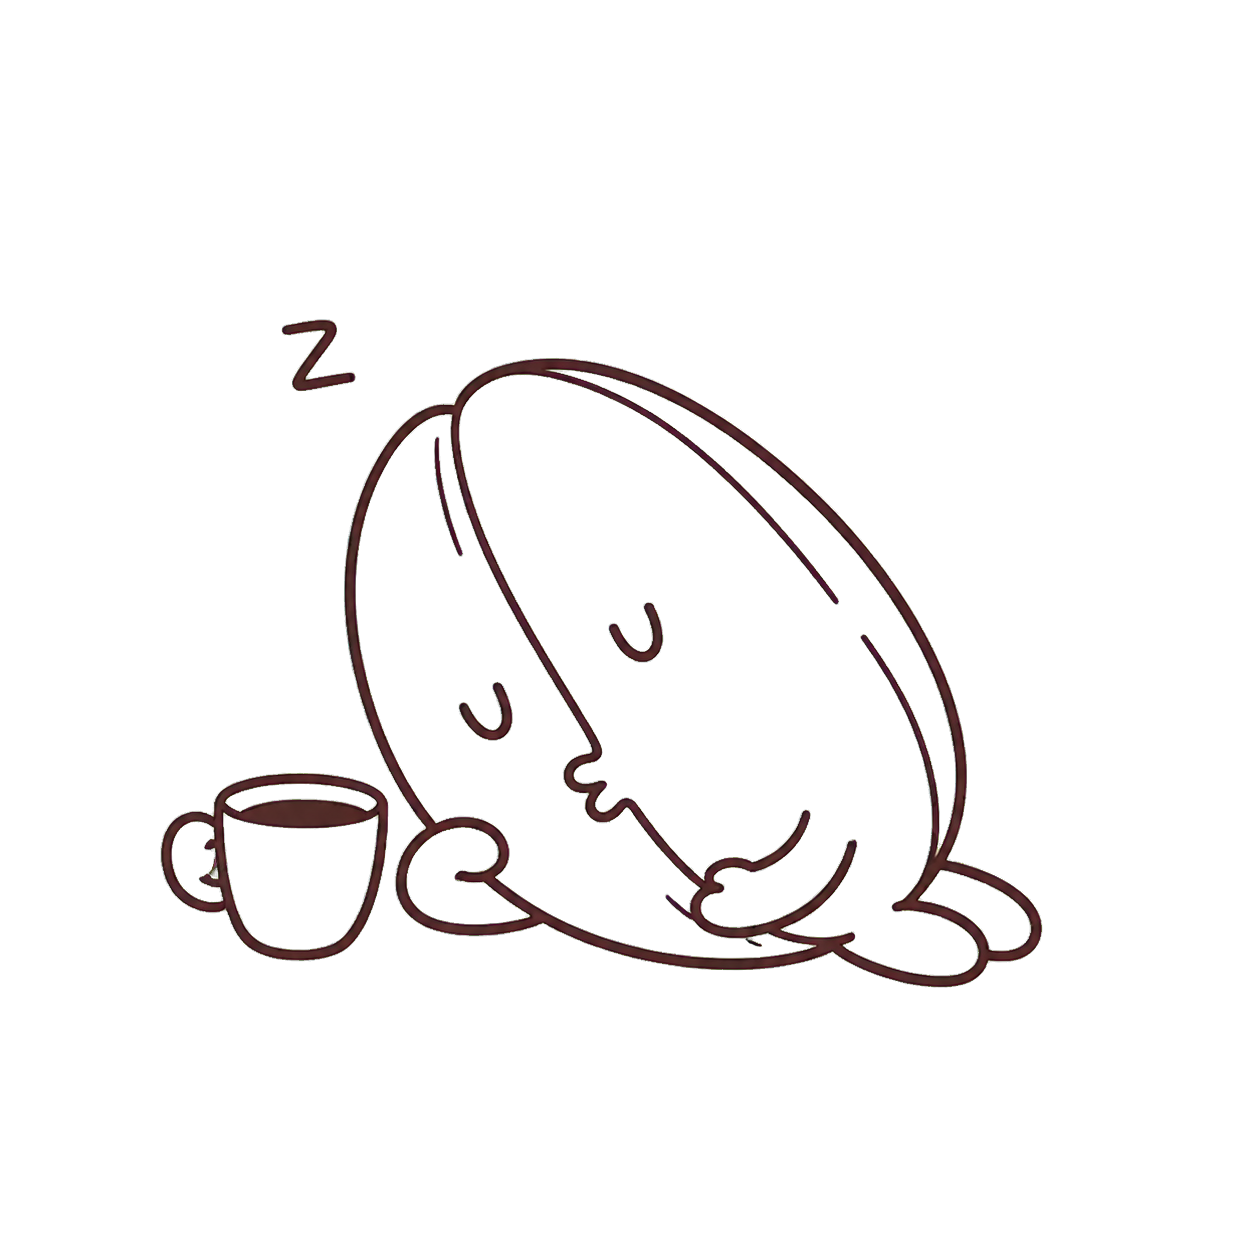
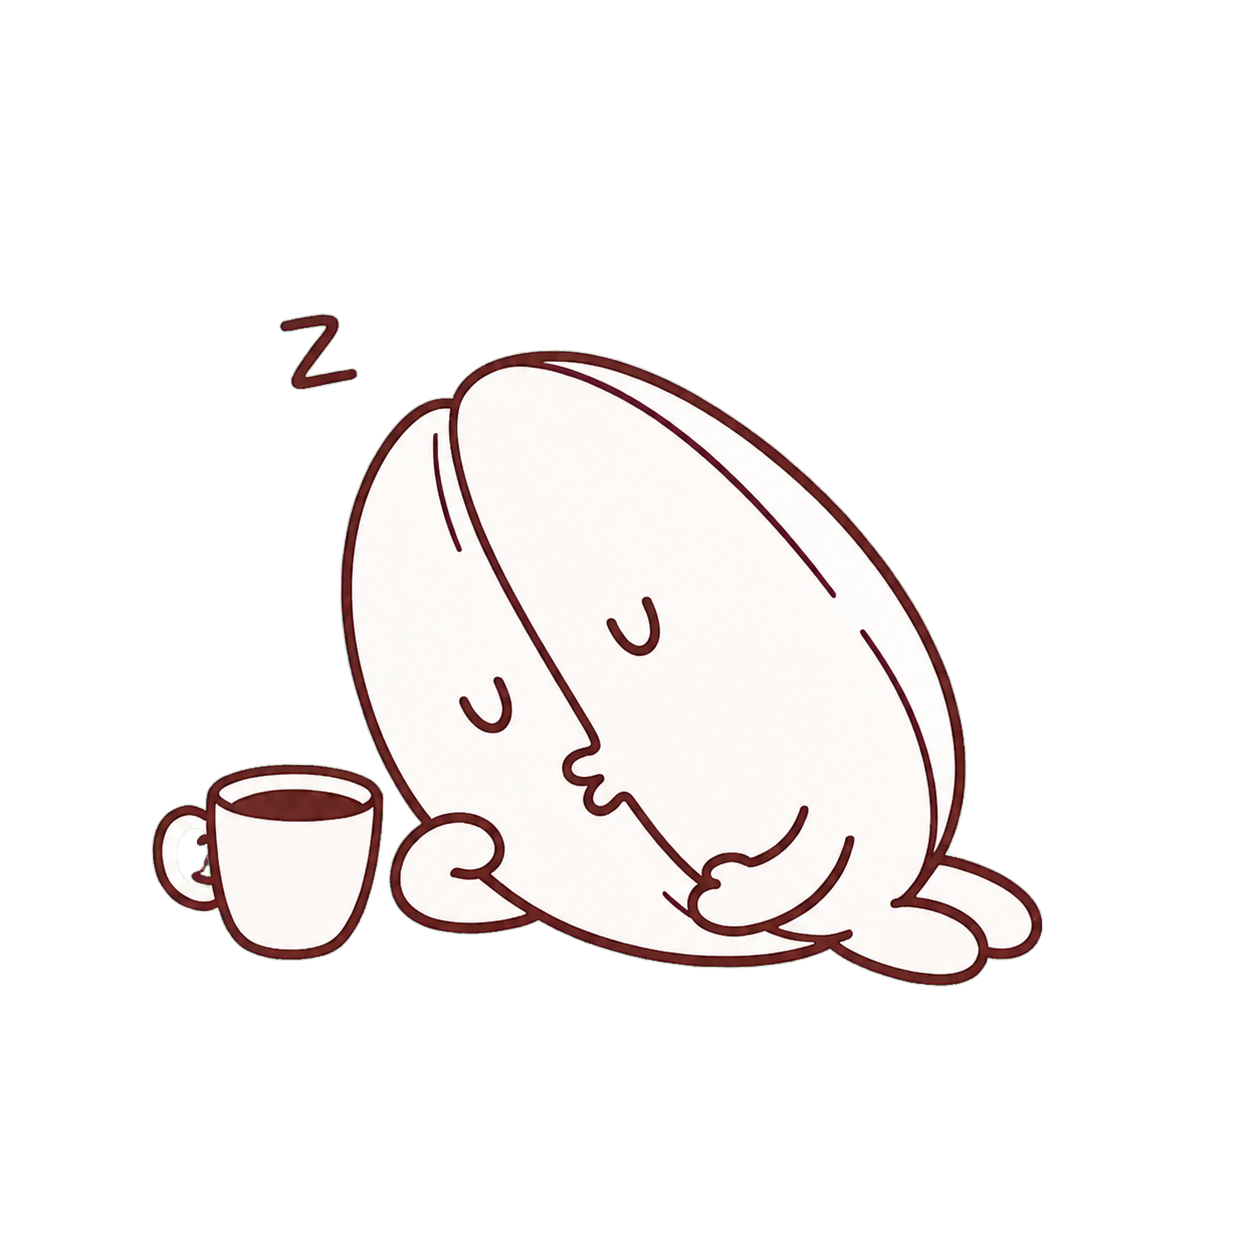
Expand the Dame Bean holiday library

diff --git a/app/components/bean-state.tsx b/app/components/bean-state.tsx
@@ -15,7 +15,48 @@ export type BeanState =
   | 'halloween'
   | 'winter';
 
-const beanCopy: Record<BeanState, { src: string; alt: string }> = {
+export type BeanHolidayState =
+  | 'new-year'
+  | 'valentines'
+  | 'dia-de-reyes'
+  | 'lunar-new-year'
+  | 'st-patricks'
+  | 'easter'
+  | 'earth-day'
+  | 'mothers-day'
+  | 'fathers-day'
+  | 'memorial-day'
+  | 'cinco-de-mayo'
+  | 'pride'
+  | 'juneteenth'
+  | 'fourth-of-july'
+  | 'labor-day'
+  | 'mexican-independence'
+  | 'indigenous-peoples-day'
+  | 'halloween'
+  | 'dia-de-muertos'
+  | 'veterans-day'
+  | 'thanksgiving'
+  | 'hanukkah'
+  | 'las-posadas'
+  | 'christmas'
+  | 'kwanzaa'
+  | 'eid';
+
+export type BeanUtilityState =
+  | 'loading-start'
+  | 'loading-sip'
+  | 'loading-ready'
+  | 'waving'
+  | 'chef'
+  | 'croissant'
+  | 'binoculars'
+  | 'construction'
+  | 'birthday';
+
+export type DameBeanState = BeanState | BeanHolidayState | BeanUtilityState;
+
+const beanCopy: Record<DameBeanState, { src: string; alt: string }> = {
   walking: {
     src: '/assets/bean-states/bean-walking.png',
     alt: 'The Dame Bean walking with a cup of coffee',
@@ -68,9 +109,130 @@ const beanCopy: Record<BeanState, { src: string; alt: string }> = {
     src: '/assets/bean-states/bean-winter.png',
     alt: 'The Dame Bean carrying a winter gift',
   },
+  'new-year': { src: '/assets/bean-states/bean-new-year.png', alt: 'The Dame Bean celebrating the New Year' },
+  valentines: { src: '/assets/bean-states/bean-valentines.png', alt: 'The Dame Bean holding a heart for Valentine’s Day' },
+  'dia-de-reyes': { src: '/assets/bean-states/bean-dia-de-reyes.png', alt: 'The Dame Bean sharing rosca for Día de Reyes' },
+  'lunar-new-year': { src: '/assets/bean-states/bean-lunar-new-year.png', alt: 'The Dame Bean celebrating Lunar New Year' },
+  'st-patricks': { src: '/assets/bean-states/bean-st-patricks.png', alt: 'The Dame Bean wearing a clover for Saint Patrick’s Day' },
+  easter: { src: '/assets/bean-states/bean-easter.png', alt: 'The Dame Bean carrying an Easter basket' },
+  'earth-day': { src: '/assets/bean-states/bean-earth-day.png', alt: 'The Dame Bean holding a seedling for Earth Day' },
+  'mothers-day': { src: '/assets/bean-states/bean-mothers-day.png', alt: 'The Dame Bean offering flowers for Mother’s Day' },
+  'fathers-day': { src: '/assets/bean-states/bean-fathers-day.png', alt: 'The Dame Bean carrying a Father’s Day gift' },
+  'memorial-day': { src: '/assets/bean-states/bean-memorial-day.png', alt: 'The Dame Bean holding a poppy for Memorial Day' },
+  'cinco-de-mayo': { src: '/assets/bean-states/bean-cinco-de-mayo.png', alt: 'The Dame Bean celebrating with papel picado' },
+  pride: { src: '/assets/bean-states/bean-pride.png', alt: 'The Dame Bean celebrating Pride' },
+  juneteenth: { src: '/assets/bean-states/bean-juneteenth.png', alt: 'The Dame Bean celebrating Juneteenth' },
+  'fourth-of-july': { src: '/assets/bean-states/bean-fourth-of-july.png', alt: 'The Dame Bean celebrating the Fourth of July' },
+  'labor-day': { src: '/assets/bean-states/bean-labor-day.png', alt: 'The Dame Bean serving coffee for Labor Day' },
+  'mexican-independence': { src: '/assets/bean-states/bean-mexican-independence.png', alt: 'The Dame Bean celebrating Mexican Independence Day' },
+  'indigenous-peoples-day': { src: '/assets/bean-states/bean-indigenous-peoples-day.png', alt: 'The Dame Bean honoring Indigenous Peoples’ Day' },
+  'dia-de-muertos': { src: '/assets/bean-states/bean-dia-de-muertos.png', alt: 'The Dame Bean holding a candle for Día de Muertos' },
+  'veterans-day': { src: '/assets/bean-states/bean-veterans-day.png', alt: 'The Dame Bean honoring Veterans Day' },
+  thanksgiving: { src: '/assets/bean-states/bean-thanksgiving.png', alt: 'The Dame Bean sharing pie for Thanksgiving' },
+  hanukkah: { src: '/assets/bean-states/bean-hanukkah.png', alt: 'The Dame Bean celebrating Hanukkah' },
+  'las-posadas': { src: '/assets/bean-states/bean-las-posadas.png', alt: 'The Dame Bean carrying a lantern for Las Posadas' },
+  christmas: { src: '/assets/bean-states/bean-christmas.png', alt: 'The Dame Bean sharing coffee and a Christmas gift' },
+  kwanzaa: { src: '/assets/bean-states/bean-kwanzaa.png', alt: 'The Dame Bean celebrating Kwanzaa' },
+  eid: { src: '/assets/bean-states/bean-eid.png', alt: 'The Dame Bean celebrating Eid' },
+  'loading-start': { src: '/assets/bean-states/bean-loading-start.png', alt: 'The Dame Bean arriving with coffee' },
+  'loading-sip': { src: '/assets/bean-states/bean-loading-sip.png', alt: 'The Dame Bean taking a sip of coffee' },
+  'loading-ready': { src: '/assets/bean-states/bean-loading-ready.png', alt: 'The Dame Bean waving with coffee ready' },
+  waving: { src: '/assets/bean-states/bean-waving.png', alt: 'The Dame Bean waving hello' },
+  chef: { src: '/assets/bean-states/bean-chef.png', alt: 'The Dame Bean presenting a fresh croissant' },
+  croissant: { src: '/assets/bean-states/bean-croissant.png', alt: 'The Dame Bean hugging a croissant' },
+  binoculars: { src: '/assets/bean-states/bean-binoculars.png', alt: 'The Dame Bean looking for the next Dame stop' },
+  construction: { src: '/assets/bean-states/bean-construction.png', alt: 'The Dame Bean building something new' },
+  birthday: { src: '/assets/bean-states/bean-birthday.png', alt: 'The Dame Bean celebrating a birthday' },
 };
 
-export function seasonalBeanFor(date = new Date()): BeanState {
+function isNthWeekday(date: Date, weekday: number, occurrence: number) {
+  return date.getDay() === weekday && Math.ceil(date.getDate() / 7) === occurrence;
+}
+
+function isLastWeekday(date: Date, weekday: number) {
+  const nextWeek = new Date(date);
+  nextWeek.setDate(date.getDate() + 7);
+  return date.getDay() === weekday && nextWeek.getMonth() !== date.getMonth();
+}
+
+function easterDate(year: number) {
+  const a = year % 19;
+  const b = Math.floor(year / 100);
+  const c = year % 100;
+  const d = Math.floor(b / 4);
+  const e = b % 4;
+  const f = Math.floor((b + 8) / 25);
+  const g = Math.floor((b - f + 1) / 3);
+  const h = (19 * a + b - d - g + 15) % 30;
+  const i = Math.floor(c / 4);
+  const k = c % 4;
+  const l = (32 + 2 * e + 2 * i - h - k) % 7;
+  const m = Math.floor((a + 11 * h + 22 * l) / 451);
+  const month = Math.floor((h + l - 7 * m + 114) / 31) - 1;
+  const day = ((h + l - 7 * m + 114) % 31) + 1;
+  return new Date(year, month, day);
+}
+
+function calendarParts(date: Date, calendar: 'chinese' | 'islamic' | 'hebrew') {
+  try {
+    const parts = new Intl.DateTimeFormat(`en-US-u-ca-${calendar}`, {
+      month: 'long',
+      day: 'numeric',
+    }).formatToParts(date);
+    return {
+      month: parts.find((part) => part.type === 'month')?.value ?? '',
+      day: Number(parts.find((part) => part.type === 'day')?.value ?? 0),
+    };
+  } catch {
+    return { month: '', day: 0 };
+  }
+}
+
+export function holidayBeanFor(date = new Date()): BeanHolidayState | null {
+  const month = date.getMonth();
+  const day = date.getDate();
+
+  if (month === 0 && day === 1) return 'new-year';
+  if (month === 0 && day === 6) return 'dia-de-reyes';
+  if (month === 1 && day === 14) return 'valentines';
+
+  const chinese = calendarParts(date, 'chinese');
+  if (chinese.month === 'First Month' && chinese.day <= 2) return 'lunar-new-year';
+
+  const islamic = calendarParts(date, 'islamic');
+  if ((islamic.month === 'Shawwal' && islamic.day <= 3) || (islamic.month === 'Dhuʻl-Hijjah' && islamic.day >= 10 && islamic.day <= 13)) return 'eid';
+
+  if (month === 2 && day === 17) return 'st-patricks';
+  const easter = easterDate(date.getFullYear());
+  if (month === easter.getMonth() && day === easter.getDate()) return 'easter';
+  if (month === 3 && day === 22) return 'earth-day';
+  if (month === 4 && day === 5) return 'cinco-de-mayo';
+  if (month === 4 && isNthWeekday(date, 0, 2)) return 'mothers-day';
+  if (month === 4 && isLastWeekday(date, 1)) return 'memorial-day';
+  if (month === 5 && day === 19) return 'juneteenth';
+  if (month === 5 && isNthWeekday(date, 0, 3)) return 'fathers-day';
+  if (month === 5) return 'pride';
+  if (month === 6 && day === 4) return 'fourth-of-july';
+  if (month === 8 && isNthWeekday(date, 1, 1)) return 'labor-day';
+  if (month === 8 && day === 16) return 'mexican-independence';
+  if (month === 9 && isNthWeekday(date, 1, 2)) return 'indigenous-peoples-day';
+  if (month === 9 && day === 31) return 'halloween';
+  if (month === 10 && day <= 2) return 'dia-de-muertos';
+  if (month === 10 && day === 11) return 'veterans-day';
+  if (month === 10 && isNthWeekday(date, 4, 4)) return 'thanksgiving';
+
+  const hebrew = calendarParts(date, 'hebrew');
+  if ((hebrew.month === 'Kislev' && hebrew.day >= 25) || (hebrew.month === 'Tevet' && hebrew.day <= 3)) return 'hanukkah';
+
+  if (month === 11 && day >= 16 && day <= 24) return 'las-posadas';
+  if (month === 11 && day === 25) return 'christmas';
+  if (month === 11 && day >= 26 && day <= 31) return 'kwanzaa';
+  return null;
+}
+
+export function seasonalBeanFor(date = new Date()): DameBeanState {
+  const holiday = holidayBeanFor(date);
+  if (holiday) return holiday;
   const month = date.getMonth();
   if (month === 9) return 'halloween';
   if (month === 11 || month <= 1) return 'winter';
@@ -85,7 +247,7 @@ export default function BeanStateImage({
   priority = false,
   decorative = false,
 }: {
-  state: BeanState;
+  state: DameBeanState;
   className?: string;
   priority?: boolean;
   decorative?: boolean;

diff --git a/app/public-v2.css b/app/public-v2.css
@@ -5525,12 +5525,29 @@
   text-align: center;
 }
 
-.dame-loading-bean {
+.dame-loading-bean-stage {
+  position: relative;
   width: min(58vw, 300px);
-  height: auto;
+  aspect-ratio: 1;
   margin-bottom: 10px;
+}
+
+.dame-loading-bean {
+  position: absolute;
+  inset: 0;
+  width: 100%;
+  height: 100%;
   object-fit: contain;
-  animation: dame-bean-walk 1.4s ease-in-out infinite;
+  opacity: 0;
+  animation: dame-loading-bean-sequence 3.6s ease-in-out infinite;
+}
+
+.dame-loading-bean:nth-child(2) {
+  animation-delay: 1.2s;
+}
+
+.dame-loading-bean:nth-child(3) {
+  animation-delay: 2.4s;
 }
 
 .dame-loading-track {
@@ -5677,9 +5694,10 @@
   margin-bottom: 8px !important;
 }
 
-@keyframes dame-bean-walk {
-  0%, 100% { transform: translate(-12px, 0) rotate(-1deg); }
-  50% { transform: translate(12px, -5px) rotate(1deg); }
+@keyframes dame-loading-bean-sequence {
+  0% { opacity: 0; transform: translateX(-18px) translateY(4px) rotate(-1deg); }
+  10%, 28% { opacity: 1; transform: translateX(0) translateY(0) rotate(0); }
+  33%, 100% { opacity: 0; transform: translateX(14px) translateY(-3px) rotate(1deg); }
 }
 
 @keyframes dame-loading-progress {
@@ -5737,6 +5755,14 @@
 
   .dame-loading-track i {
     width: 68%;
+  }
+
+  .dame-loading-bean:first-child {
+    opacity: 1;
+  }
+
+  .dame-loading-bean:not(:first-child) {
+    display: none;
   }
 }
 

diff --git a/app/loading.tsx b/app/loading.tsx
@@ -3,10 +3,14 @@ import BeanStateImage from './components/bean-state';
 export default function Loading() {
   return (
     <main className="dame-loading-screen" aria-live="polite" aria-busy="true">
-      <BeanStateImage state="walking" className="dame-loading-bean" priority />
-      <p className="dame-kicker">The Bean is on the way</p>
+      <div className="dame-loading-bean-stage">
+        <BeanStateImage state="loading-start" className="dame-loading-bean" priority />
+        <BeanStateImage state="loading-sip" className="dame-loading-bean" decorative />
+        <BeanStateImage state="loading-ready" className="dame-loading-bean" decorative />
+      </div>
+      <p className="dame-kicker">The Bean is brewing your page</p>
       <div className="dame-loading-track" aria-hidden="true"><i /></div>
-      <span>Bringing Dame to you.</span>
+      <span>Arriving. Sipping. Ready.</span>
     </main>
   );
 }

diff --git a/app/components/seasonal-bean.tsx b/app/components/seasonal-bean.tsx
@@ -1,10 +1,10 @@
 'use client';
 
 import { useEffect, useState } from 'react';
-import BeanStateImage, { seasonalBeanFor, type BeanState } from './bean-state';
+import BeanStateImage, { seasonalBeanFor, type DameBeanState } from './bean-state';
 
 export default function SeasonalBean({ className }: { className?: string }) {
-  const [state, setState] = useState<BeanState | null>(null);
+  const [state, setState] = useState<DameBeanState | null>(null);
 
   useEffect(() => {
     setState(seasonalBeanFor(new Date()));

diff --git a/public/assets/bean-states/README.md b/public/assets/bean-states/README.md
@@ -20,10 +20,14 @@ The Bean is Dame Coffee's quiet guide—not wallpaper. Each appearance should he
 | `bean-halloween.png` | October |
 | `bean-winter.png` | December through February |
 
+The expanded library also includes automatic holiday art for New Year, Día de Reyes, Lunar New Year, Valentine’s Day, Saint Patrick’s Day, Easter, Earth Day, Cinco de Mayo, Mother’s Day, Memorial Day, Pride, Juneteenth, Father’s Day, Fourth of July, Labor Day, Mexican Independence Day, Indigenous Peoples’ Day, Halloween, Día de Muertos, Veterans Day, Thanksgiving, Hanukkah, Las Posadas, Christmas, Kwanzaa, and Eid.
+
+Everyday utility poses include loading arrival, sipping, ready/waving, chef, croissant, binoculars, construction, and birthday states. The loading screen uses a three-pose sequence: arrive, sip, and wave.
+
 ## Visual rules
 
 - Preserve the tall bean silhouette, center seam, long nose, and tiny puckered mouth.
-- Use warm burgundy linework, white fills, and the original hand-drawn imperfection.
+- Use warm burgundy linework, solid warm-white body fills, and the original hand-drawn imperfection.
 - Use the softer closed-eye Bean for calm moments and the expressive eyebrow Bean for playful feedback.
 - Keep props simple and immediately readable.
 - Never add the Bean only to fill empty space.
